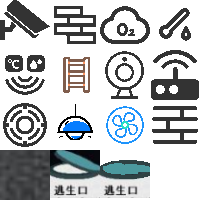
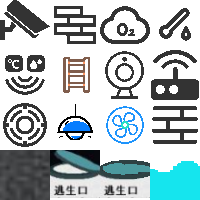
add tiel for map

Changed region(s): [[0.75, 0.78, 1.0, 1.0]]

diff --git a/a-ziyuan41.tsx b/a-ziyuan41.tsx
@@ -1,4 +1,4 @@
 <?xml version="1.0" encoding="UTF-8"?>
-<tileset version="1.5" tiledversion="1.7.2" name="a-ziyuan41" tilewidth="50" tileheight="50" tilecount="16" columns="4">
+<tileset version="1.5" tiledversion="1.7.2" name="a-ziyuan41" tilewidth="50" tileheight="50" tilecount="64" columns="4">
  <image source="a-ziyuan41.png" width="200" height="200"/>
 </tileset>
